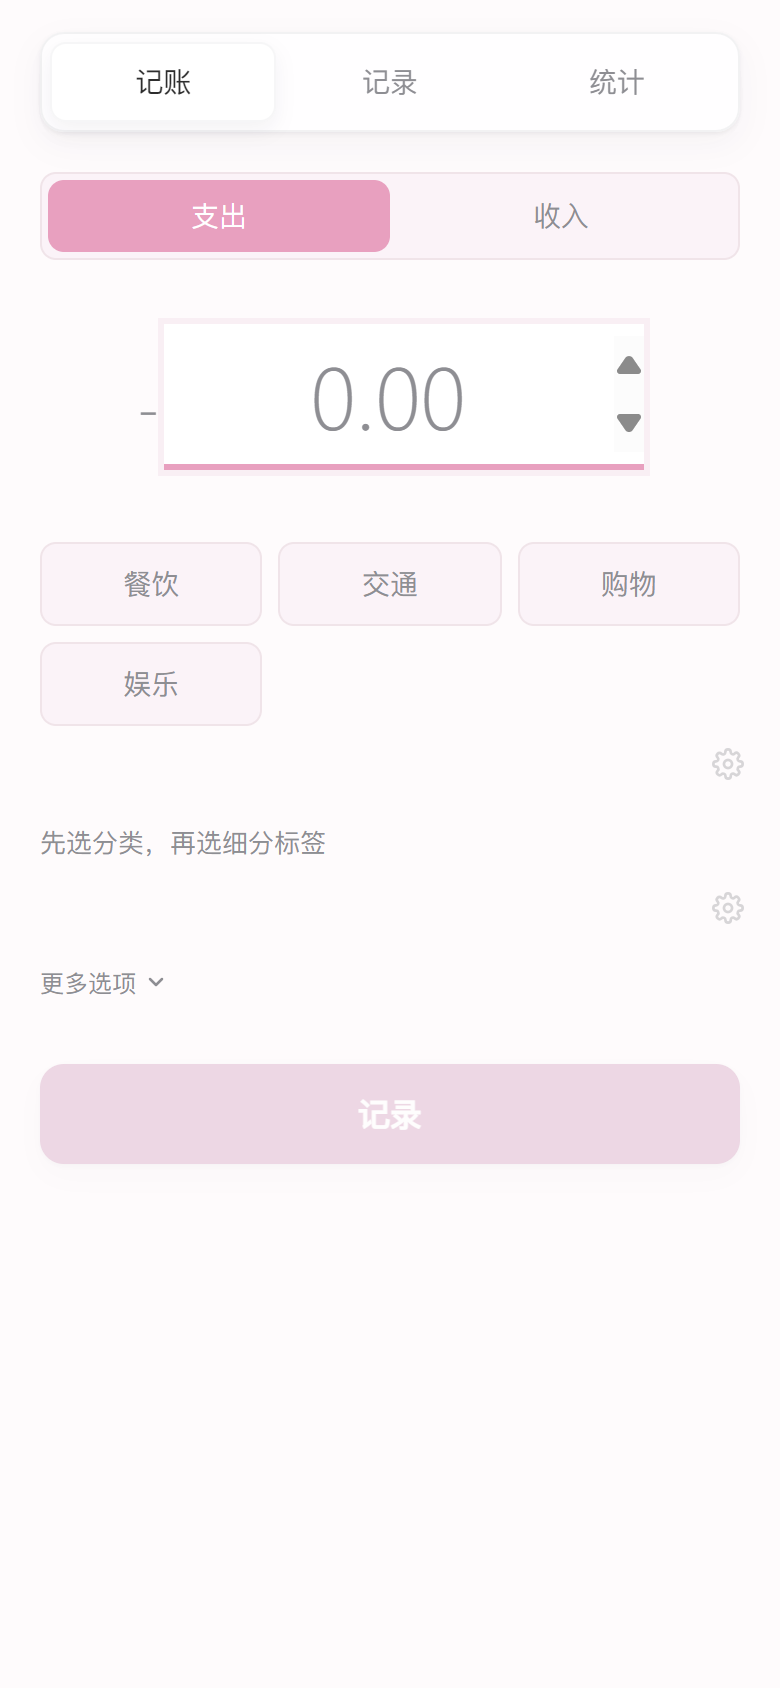
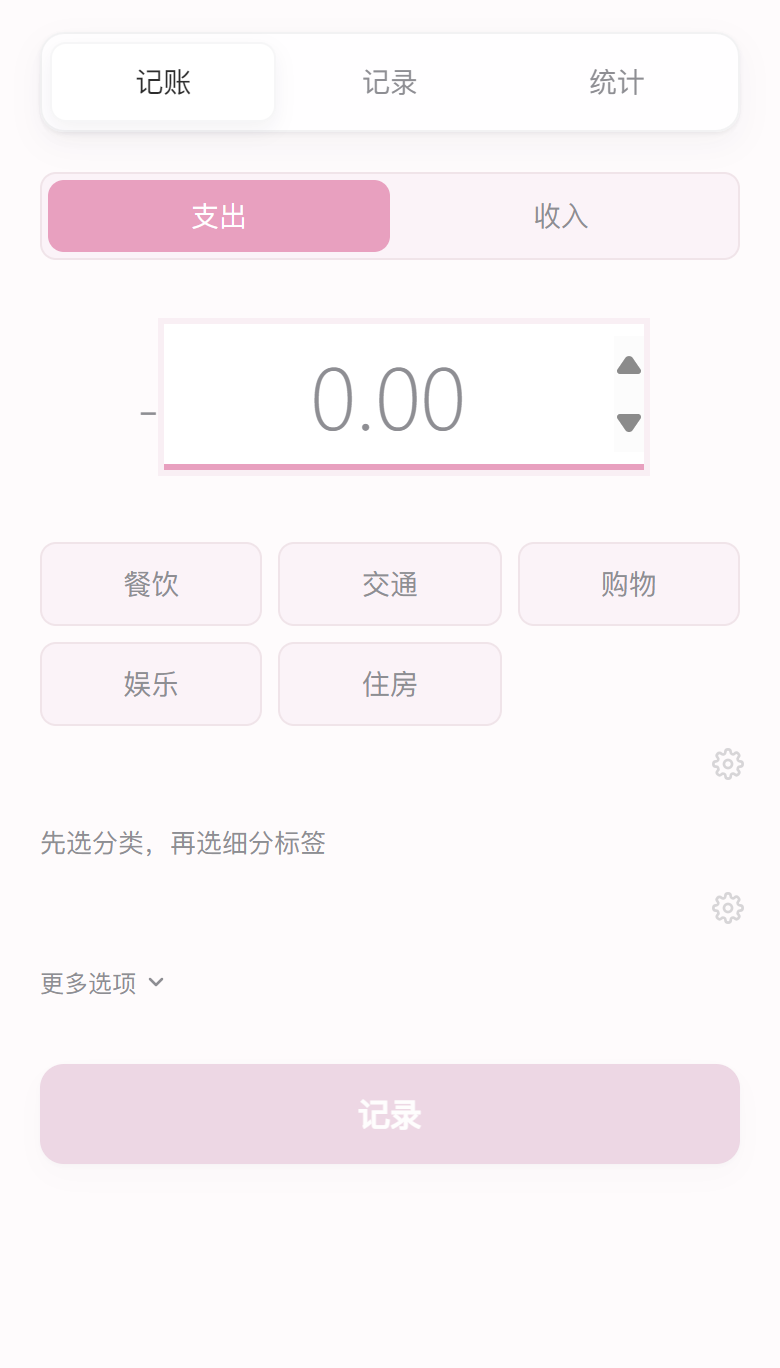
docs: improve screenshot quality and README layout

diff --git a/README.md b/README.md
@@ -23,9 +23,13 @@
 ---
 
 <p align="center">
-  <img src="screenshots/add.png" width="240" alt="记一笔" />&nbsp;&nbsp;
-  <img src="screenshots/list.png" width="240" alt="看记录" />&nbsp;&nbsp;
-  <img src="screenshots/stats.png" width="240" alt="统计" />
+  <img src="screenshots/add.png" width="220" alt="记一笔" />&nbsp;
+  <img src="screenshots/list.png" width="220" alt="看记录" />&nbsp;
+  <img src="screenshots/stats.png" width="220" alt="统计" />
+</p>
+
+<p align="center">
+  <em>记一笔 · 看记录 · 统计曲线</em>
 </p>
 
 ---
